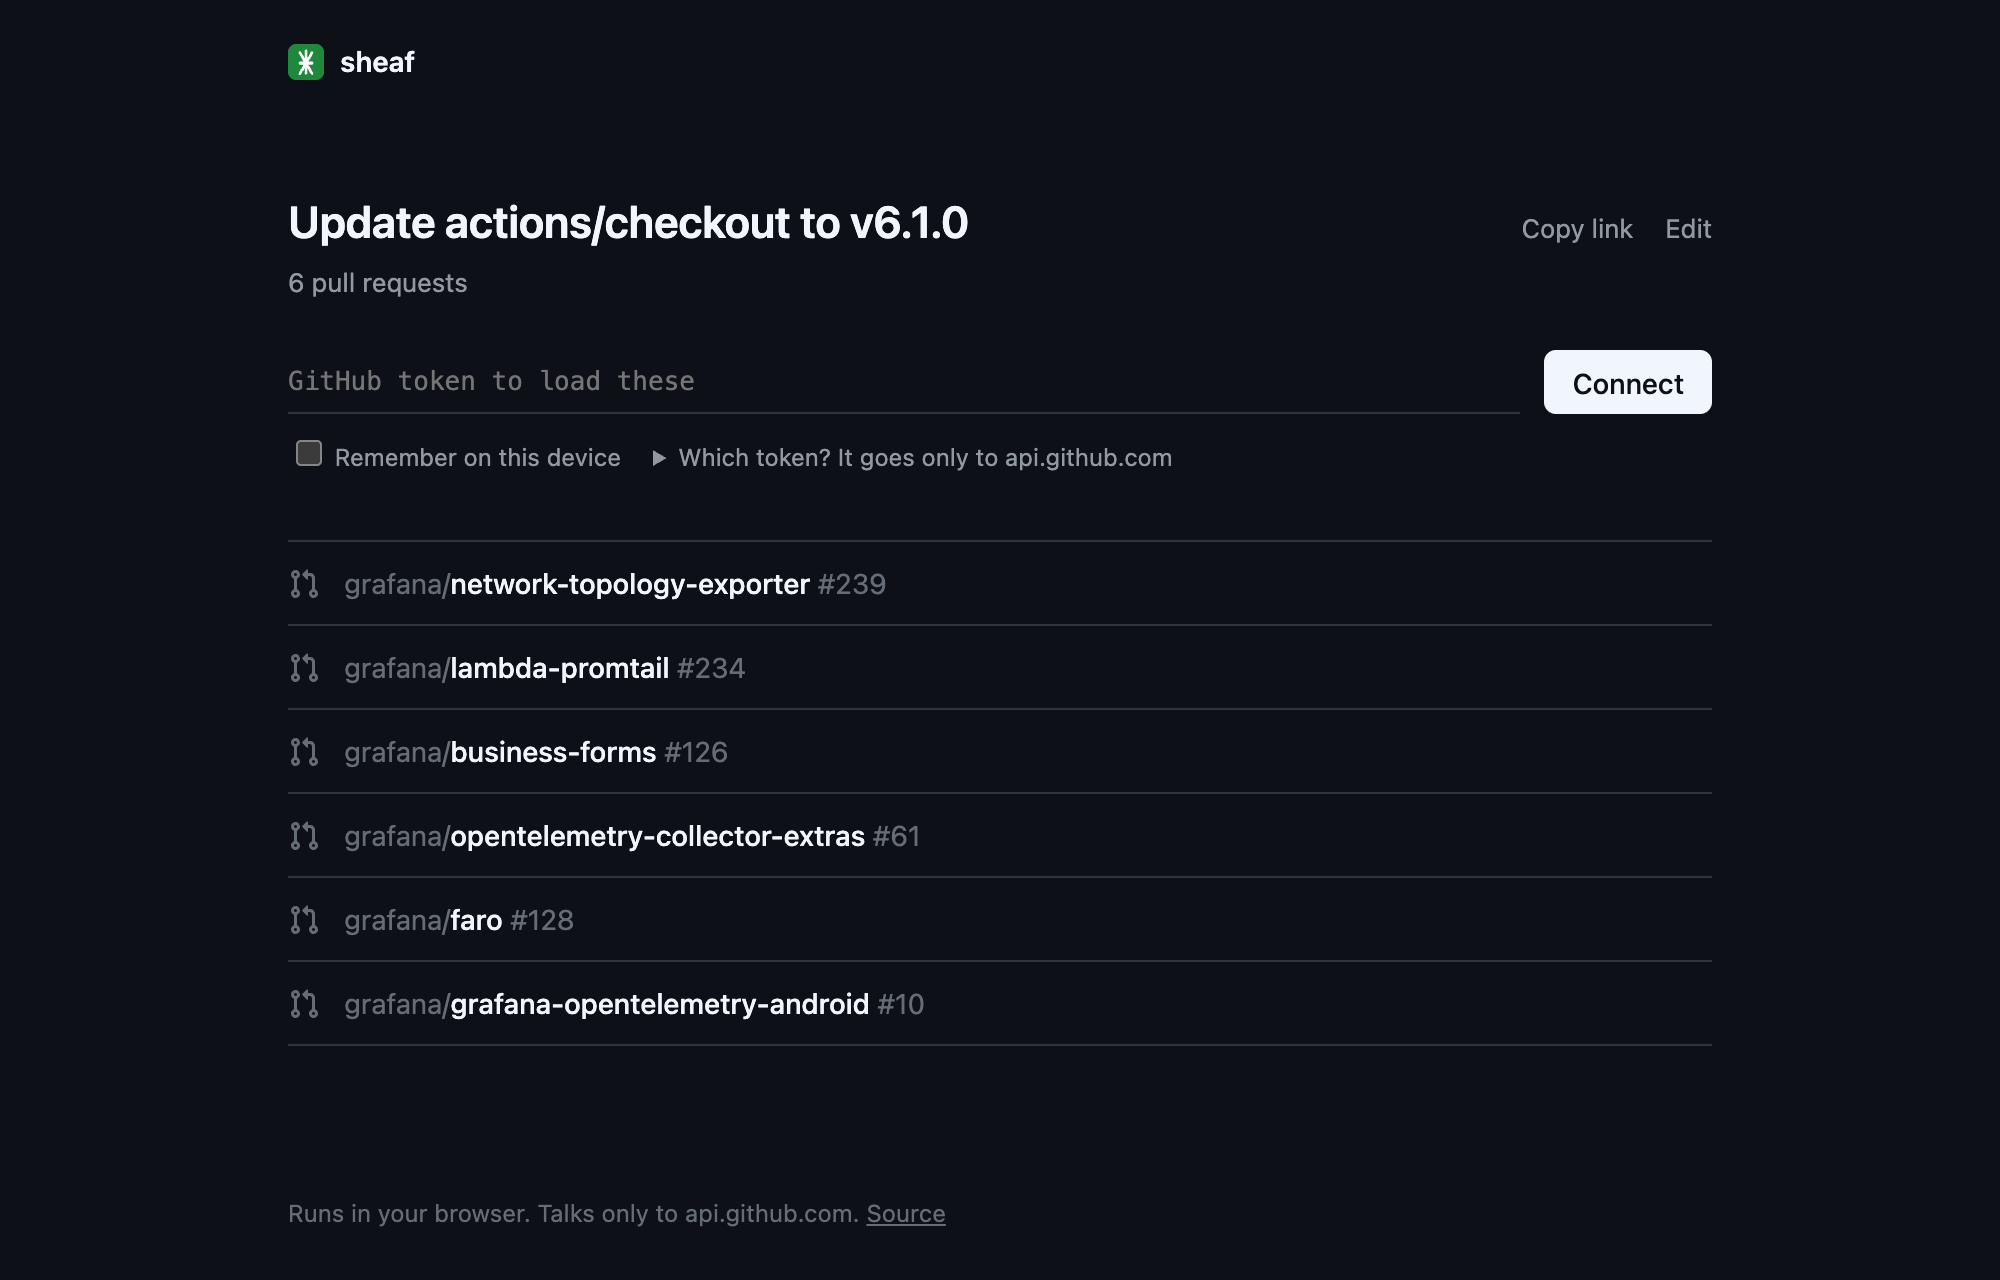
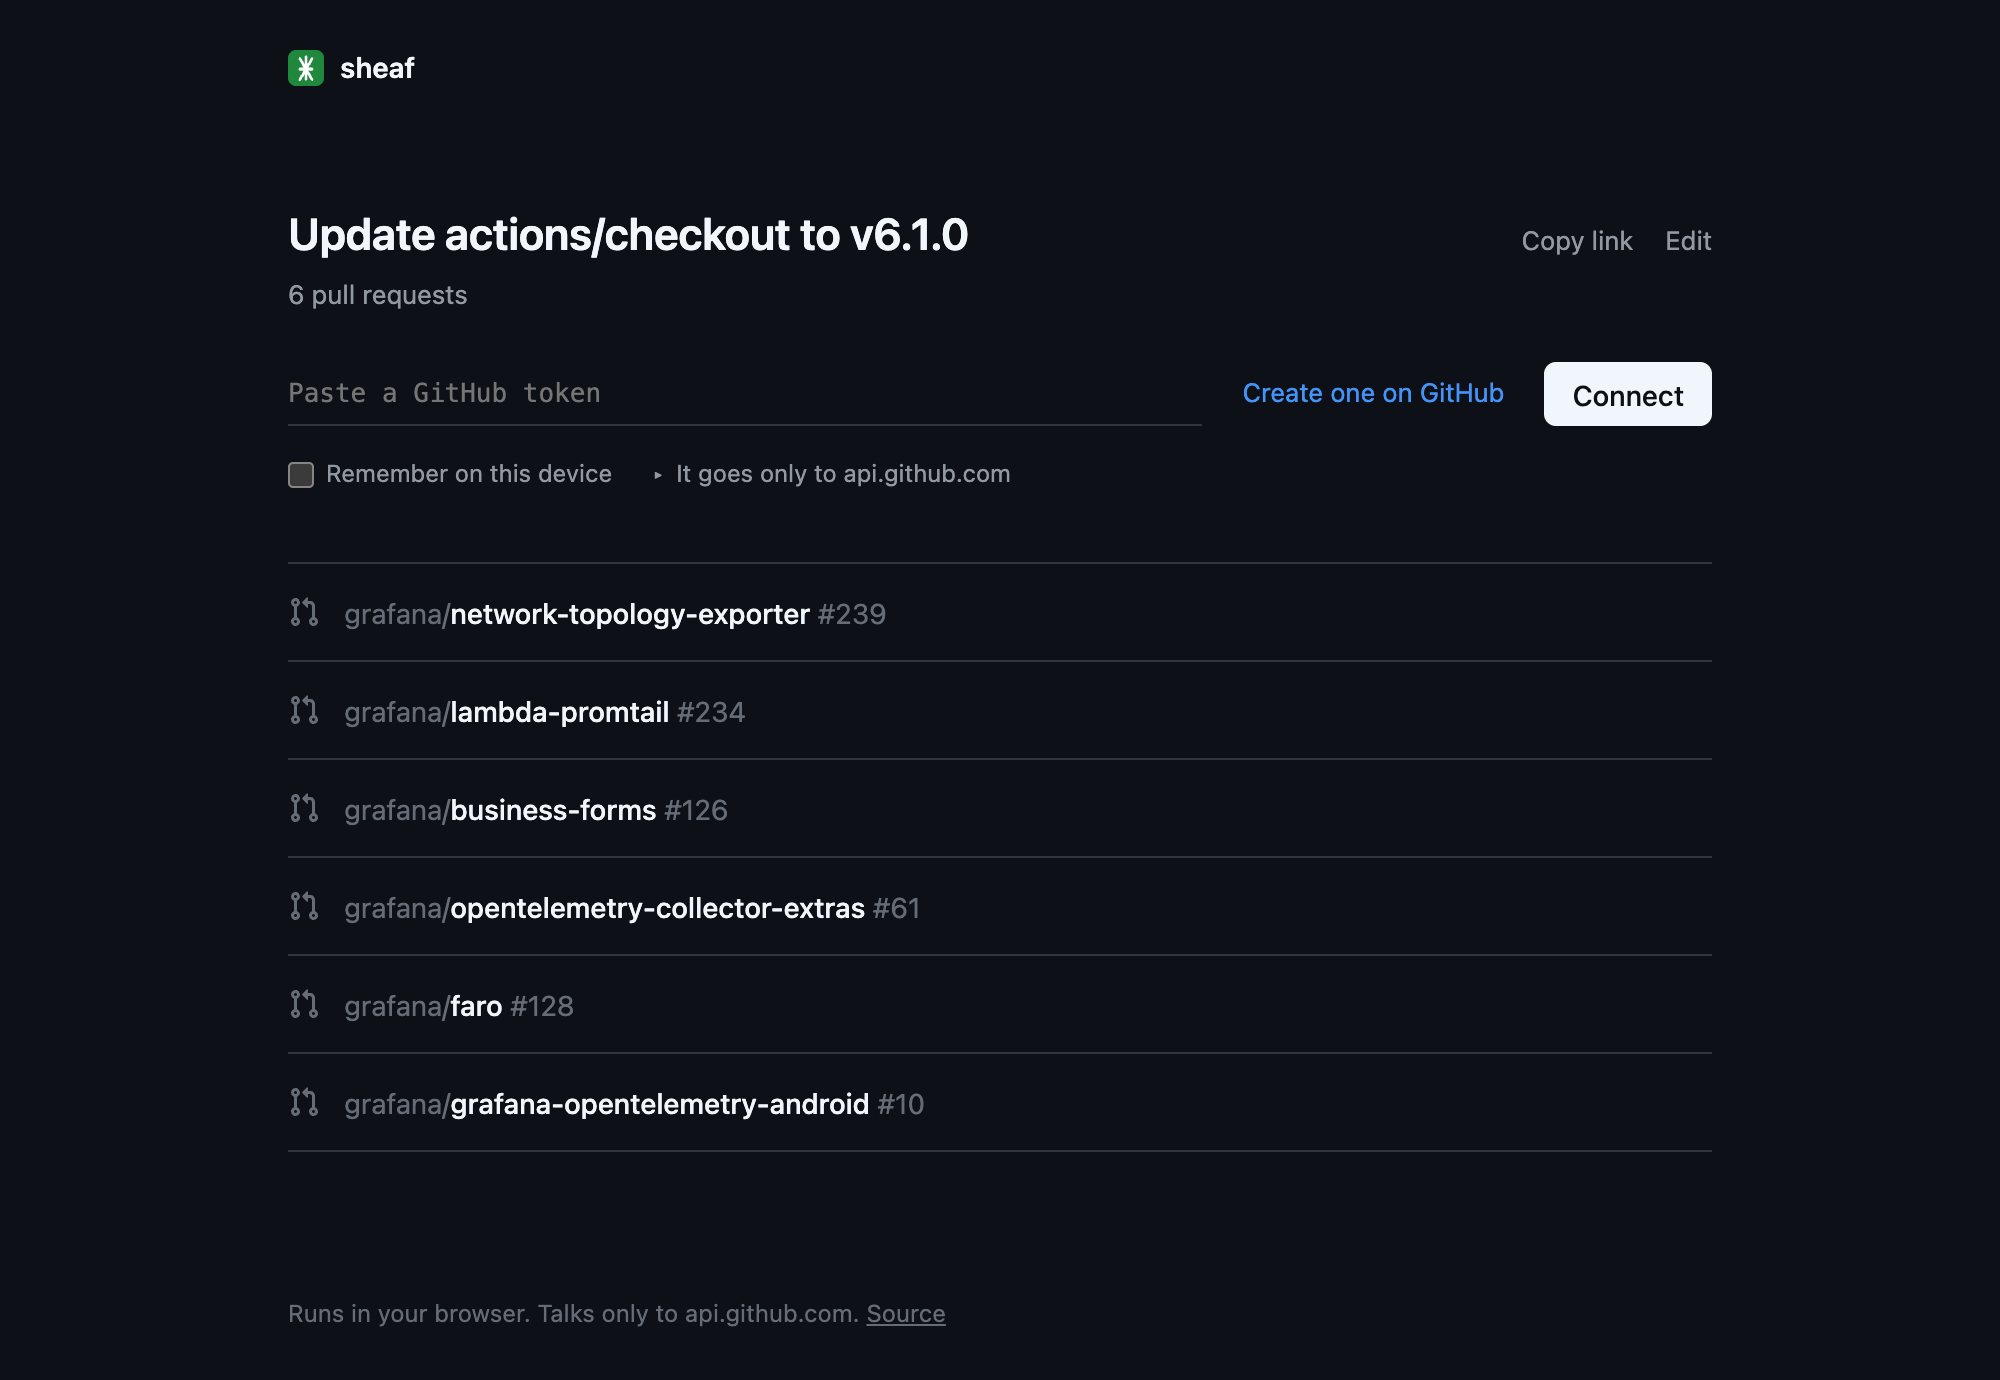
One-click token: prefilled GitHub token link, paste to connect

diff --git a/app.js b/app.js
@@ -185,10 +185,15 @@ function composeView() {
   );
 }
 
+// GitHub fills in the scope and name from the URL; you only pick an expiry and click Generate.
+const NEW_TOKEN = "https://github.com/settings/tokens/new?scopes=repo&description=sheaf";
+const NEW_PUBLIC_TOKEN = "https://github.com/settings/tokens/new?scopes=public_repo&description=sheaf%20(public%20repos)";
+const LOOKS_LIKE_TOKEN = /^(ghp|github_pat|gho)_\w{20,}$/;
+
 function tokenCard() {
-  const input = h("input", { class: "input", type: "password", autocomplete: "off", spellcheck: "false", placeholder: "GitHub token to load these", "aria-label": "GitHub token", required: true });
+  const input = h("input", { class: "input", type: "password", autocomplete: "off", spellcheck: "false", placeholder: "Paste a GitHub token", "aria-label": "GitHub token", required: true });
   const remember = h("input", { type: "checkbox", id: "remember" });
-  return h("form", {
+  const form = h("form", {
     class: "token",
     onsubmit: (e) => {
       e.preventDefault();
@@ -196,15 +201,27 @@ function tokenCard() {
       load();
     },
   },
-    h("div", { class: "token-row" }, input, h("button", { class: "btn", type: "submit" }, "Connect")),
-    h("div", { class: "token-opts" },
-    h("label", { class: "check" }, remember, " Remember on this device"),
-    h("details", {},
-      h("summary", {}, "Which token? It goes only to api.github.com"),
-      h("p", {}, "A fine-grained token with ", h("b", {}, "Pull requests: read and write"), " on the repositories (write is only used for 👀), or a classic token with ", h("code", {}, "repo"), ". If you use the GitHub CLI, ", h("code", {}, "gh auth token"), " prints one."),
+    h("div", { class: "token-row" },
+      input,
+      h("a", { class: "quiet new-token", href: NEW_TOKEN, target: "_blank", rel: "noopener noreferrer" }, "Create one on GitHub"),
+      h("button", { class: "btn", type: "submit" }, "Connect"),
     ),
+    h("div", { class: "token-opts" },
+      h("label", { class: "check" }, remember, " Remember on this device"),
+      h("details", {},
+        h("summary", {}, "It goes only to api.github.com"),
+        h("p", {},
+          "The link opens GitHub's token page with the ", h("code", {}, "repo"), " scope and the name sheaf filled in; you pick an expiry and click ", h("b", {}, "Generate token"), ". ",
+          "For public repositories only, ", h("a", { href: NEW_PUBLIC_TOKEN, target: "_blank", rel: "noopener noreferrer" }, "use public_repo instead"), ". ",
+          "A fine-grained token with ", h("b", {}, "Pull requests: read and write"), " works too, and so does ", h("code", {}, "gh auth token"), "."),
+      ),
     ),
   );
+  // Pasting a whole token connects straight away; typing still waits for Connect.
+  input.addEventListener("paste", () => setTimeout(() => LOOKS_LIKE_TOKEN.test(input.value.trim()) && form.requestSubmit()));
+  // Back from GitHub's tab with a token on the clipboard: be ready to paste.
+  window.addEventListener("focus", () => input.isConnected && !input.value && input.focus(), { once: true });
+  return form;
 }
 
 function stateOf(pr) {

diff --git a/style.css b/style.css
@@ -67,8 +67,12 @@ textarea.input { font: 13px/1.7 var(--mono); resize: vertical; }
 .bad { color: var(--closed); }
 
 .token { margin: 24px 0 8px; }
-.token-row { display: flex; gap: 12px; align-items: center; }
+.token-row { display: flex; flex-wrap: wrap; gap: 12px 20px; align-items: center; }
+.token-row .input { flex: 1 1 260px; }
 .token-row .input { font-family: var(--mono); font-size: 13px; }
+.new-token { white-space: nowrap; font-size: 13px; color: var(--accent); }
+.new-token:hover { color: var(--accent); text-decoration: underline; }
+.token-row .btn { margin-left: auto; }
 .token-opts { display: flex; flex-wrap: wrap; align-items: center; gap: 8px 20px; margin-top: 12px; font-size: 12px; color: var(--muted); }
 .check { display: inline-flex; align-items: center; gap: 6px; min-height: 24px; cursor: pointer; }
 .check input { margin: 0; }

diff --git a/README.md b/README.md
@@ -13,7 +13,7 @@ You paste the pull requests of one change, say a dependency bump in eight servic
 ## Requirements
 
 - A current Chrome, Edge, Firefox or Safari (Chrome 111, Firefox 113, Safari 16.2 or later)
-- A GitHub token for each person who opens a link. GitHub's GraphQL API needs one even for public repositories:
+- A GitHub token for each person who opens a link, which the page helps create in two clicks. A page can't use your github.com login: browsers don't send its cookies to other sites, and GitHub's API only takes tokens. GitHub's GraphQL API needs one even for public repositories:
   - fine-grained, with **Pull requests: Read and write** on the repositories (write is only used for 👀), or
   - classic, with the `repo` scope, or whatever `gh auth token` prints if you use the GitHub CLI
 - [Node.js](https://nodejs.org) 20 or later to run the tests; nothing to build
@@ -36,9 +36,9 @@ Any static host works the same way, GitHub Pages included. To uninstall, click *
 
 1. Open the page without a link. Give the bundle a title and paste its pull requests: full URLs, `owner/repo#123` or `owner/repo/123`, one per line, or any text that contains PR links, such as a Slack message or a Markdown checklist. Every PR link in a line counts. The counter under the box says how many it understood and which lines had none.
 2. Click **Create link**, then **Copy link**, and send that link wherever you would have pasted eight.
-3. Whoever opens it pastes a token under **Connect to GitHub** and sees the list.
+3. Whoever opens it clicks **Create one on GitHub**. Because they are logged in, GitHub's token page opens with the `repo` scope and the name sheaf already filled in: pick an expiry, click **Generate token**, copy it. Pasting it into sheaf connects straight away. Tick **Remember on this device** to do this once.
 
-<p align="center"><img src="docs/connect.png" width="640" alt="A shared link before connecting: the bundle title and 6 pull requests, a GitHub token field with a Connect button, a Remember on this device box and a Which token? hint, then the six pull requests listed by repository and number."></p>
+<p align="center"><img src="docs/connect.png" width="640" alt="A shared link before connecting: the bundle title and 6 pull requests, a Paste a GitHub token field with a blue Create one on GitHub link and a Connect button, a Remember on this device box and a note that the token goes only to api.github.com, then the six pull requests listed by repository and number."></p>
 
 - **Eye button.** At the end of each row. Click it to add your 👀 reaction to that pull request on GitHub, again to take it back. It turns blue while yours is on. Avatars of everyone who reacted 👀 sit next to it.
 - **mark all seen.** Adds 👀 to every pull request in the bundle you haven't marked yet.
